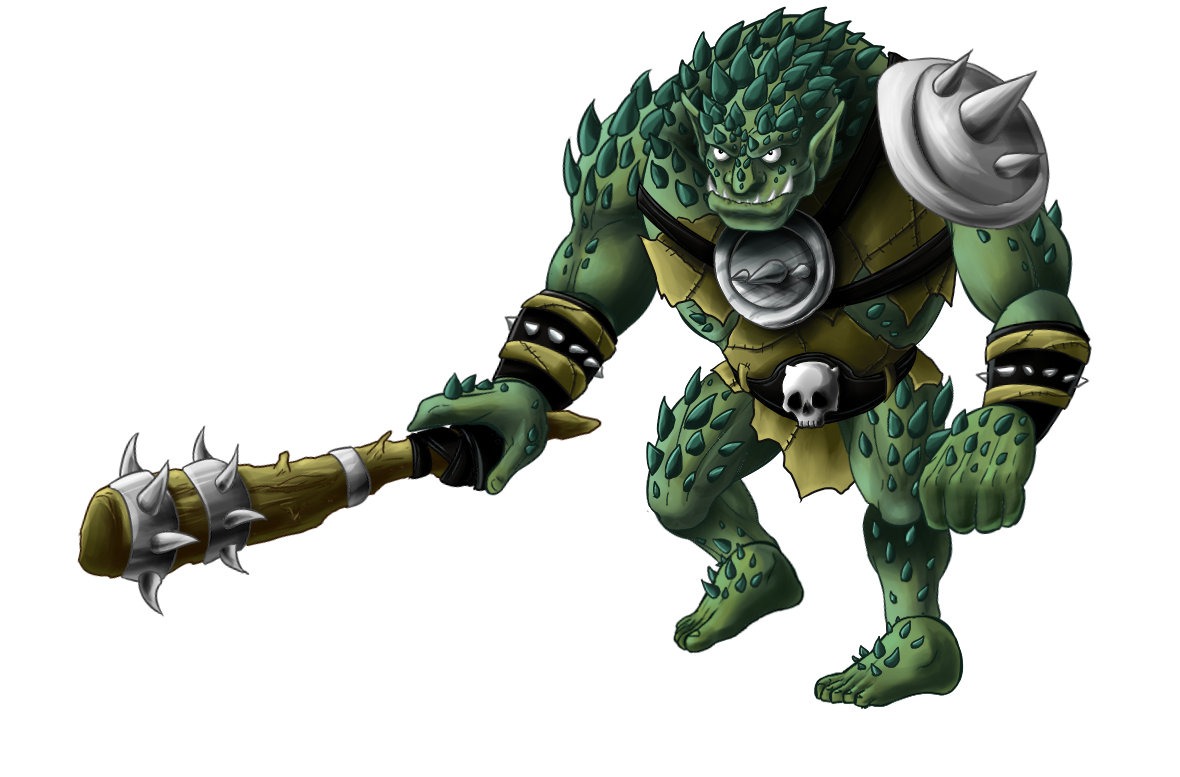
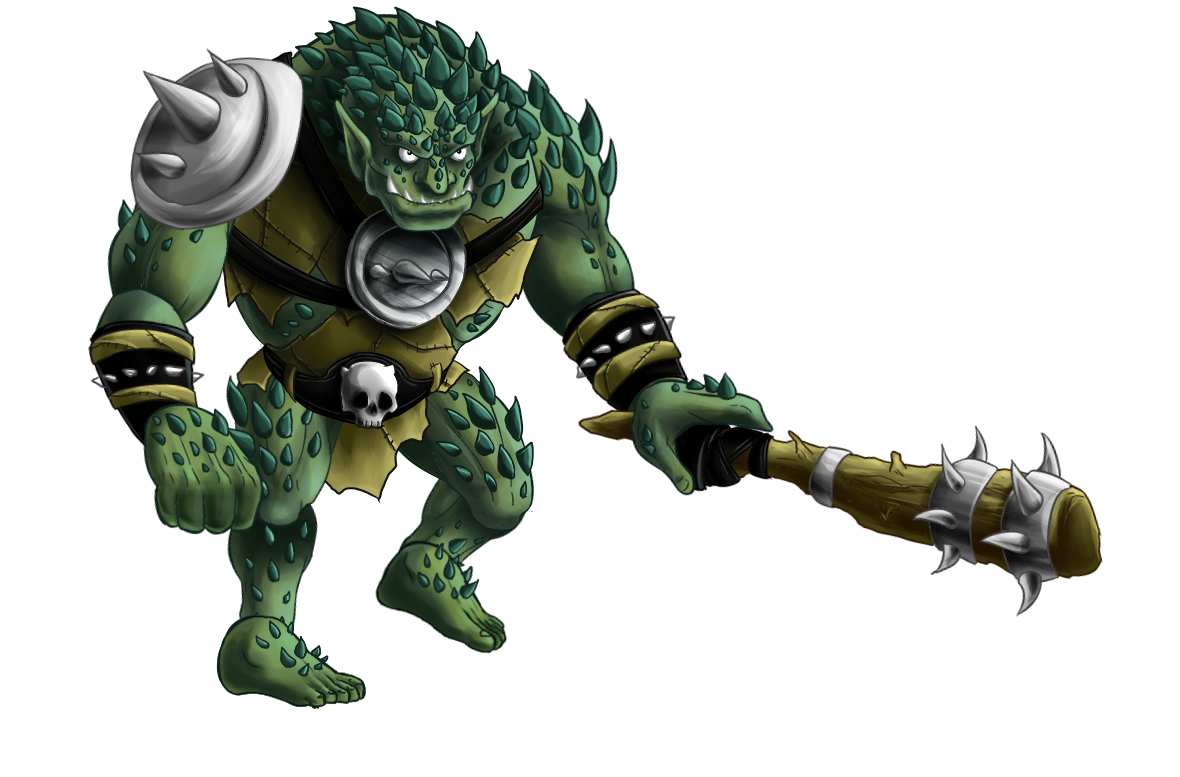
added: endboss walking, endboss get hit, endboss attack fixed: endboss size

diff --git a/models/endboss.class.js b/models/endboss.class.js
@@ -1,8 +1,8 @@
 class Endboss extends MovableObject {
-    width = 420;
-    height = 340;
+    width = 380;
+    height = 280;
     x = 3850;
-    y = 70;
+    y = 90;
     speed = 2;
     offset = {
         x: 50,
@@ -10,12 +10,55 @@ class Endboss extends MovableObject {
         width: 260,
         height: 50,
     };
+    attackHitbox = { 
+    x: 0, 
+    y: 0, 
+    width: 380,   // Länge der Keule
+    height: 180   // Höhe der Keule
+    };
 
-    // für Kollisionslogik in World
+    // Skalierung
+    scaleIdle = 1.0;
+    scaleHurt = 1.25;
+    scaleDead = 1.25;
+    scaleAttack = 1.5;  // Attack jetzt groß wie Dead
+
+    // Y-Offsets
+    hurtYOffset = 10;
+    deadYOffset = 60;
+
+    // Kollisionslogik
     collidable = true;
     isDying = false;
 
-    // === Animation-Arrays ===
+    // Leben
+    energy = 100;
+    isDeadFlag = false;
+
+    // Hurt / Death
+    hurtPlaying = false;
+    hurtFrameIndex = 0;
+    deathPlaying = false;
+    deathFrameIndex = 0;
+
+    // Treffer-Cooldown von Spieler → Boss
+    minHitInterval = 350;
+    lastHitAt = 0;
+
+    // Attack / Hitbox
+    attacking = false;
+    attackFrameIndex = 0;
+    isMoving = false;
+
+    // Boss → Character Schaden-Cooldown
+    damageInterval = 600; 
+    lastDamageDealtAt = 0;
+
+    // Cooldown zwischen zwei Attack-Starts
+    attackCooldown = 900;
+    lastAttackStartedAt = 0;
+
+    // Animationen
     IMAGES_WALKING = [
         'img/4_enemie_boss_orc/1_walk/Walk_000.png',
         'img/4_enemie_boss_orc/1_walk/Walk_001.png',
@@ -81,22 +124,12 @@ class Endboss extends MovableObject {
         'img/4_enemie_boss_orc/3_attack/Attack_009.png'
     ];
 
-    // === Lebens- und Animations-Status ===
-    energy = 100;            // 0–100, wird für die Statusbar genutzt
-    isDeadFlag = false;
-
-    hurtPlaying = false;
-    hurtFrameIndex = 0;
-
-    deathPlaying = false;
-    deathFrameIndex = 0;
-
     constructor() {
         super().loadImage(this.IMAGES_ALERT[0]);
+        this.baseY = this.y;
 
         this.isEndboss = true;
 
-        // alle Sprites in Cache laden
         this.loadImages(this.IMAGES_WALKING);
         this.loadImages(this.IMAGES_ALERT);
         this.loadImages(this.IMAGES_HURT);
@@ -106,29 +139,29 @@ class Endboss extends MovableObject {
         this.animate();
     }
 
-    /**
-     * wird von außen aufgerufen, z.B. bei Schlag oder Kunai-Treffer
-     * damage = wie viel Prozent Leben abgezogen werden sollen
-     */
+    /** Boss bekommt Schaden vom Spieler */
     hit(damage = 10) {
         if (this.isDeadFlag) return;
+
+        const now = performance.now();
+        if (now - this.lastHitAt < this.minHitInterval) return;
+        this.lastHitAt = now;
 
         this.energy -= damage;
         if (this.energy < 0) this.energy = 0;
 
-        // Hurt-Animation EINMAL anspielen
-        if (!this.deathPlaying) {
-            this.hurtPlaying = true;
-            this.hurtFrameIndex = 0;
-        }
+        this.isMoving = false;
+        this.hurtPlaying = true;
+        this.hurtFrameIndex = 0;
 
-        // Tod checken
         if (this.energy === 0) {
             this.isDeadFlag = true;
             this.collidable = false;
             this.isDying = true;
             this.deathPlaying = true;
             this.deathFrameIndex = 0;
+            this.attacking = false;
+            this.isMoving = false;
         }
     }
 
@@ -136,54 +169,133 @@ class Endboss extends MovableObject {
         return this.isDeadFlag;
     }
 
-    animate() {
-        // Animationssteuerung
-        setInterval(() => {
-            if (this.deathPlaying) {
-                this.playDeathOnce();
-            } else if (this.hurtPlaying) {
-                this.playHurtOnce();
-            } else {
-                // solange nichts Besonderes ist, bleibt er in ALERT/Idle
-                this.playAnimation(this.IMAGES_ALERT);
-            }
-        }, 120);
+    /** Boss → Player Damage Check */
+    canDamagePlayer() {
+        if (!this.attacking || this.isDeadFlag || this.hurtPlaying || this.deathPlaying) return false;
 
-        // Bewegung (falls du später was machen willst)
+        const now = performance.now();
+        if (now - this.lastDamageDealtAt < this.damageInterval) return false;
+        this.lastDamageDealtAt = now;
+
+        return true;
+    }
+
+    /** Angriff starten (mit Cooldown) */
+    startAttack() {
+        const now = performance.now();
+
+        if (now - this.lastAttackStartedAt < this.attackCooldown) {
+            return false;
+        }
+
+        this.lastAttackStartedAt = now;
+        this.attacking = true;
+        this.attackFrameIndex = 0;
+        this.isMoving = false;
+        return true;
+    }
+
+    /** Skalierte Darstellung */
+    draw(ctx) {
+        let scale = this.scaleIdle;
+
+        if (this.hurtPlaying) scale = this.scaleHurt;
+        else if (this.deathPlaying) scale = this.scaleDead;
+        else if (this.attacking) scale = this.scaleAttack;
+
+        const w = this.width * scale;
+        const h = this.height * scale;
+
+        const dx = this.x - (w - this.width) / 2;
+        const dy = this.y - (h - this.height);
+
+        ctx.drawImage(this.img, dx, dy, w, h);
+    }
+
+    animate() {
+        // --- Animationslogik ---
         setInterval(() => {
-            if (!this.isDeadFlag) {
-                // Beispiel: Blickrichtung nach rechts
-                this.otherDirection = true;
-                // this.moveLeft(); // falls er laufen soll
+            if (this.deathPlaying) return this.playDeathOnce();
+            if (this.hurtPlaying) return this.playHurtOnce();
+            if (this.attacking) return this.playAttackOnce();
+            if (this.isMoving) return this.playAnimation(this.IMAGES_WALKING);
+            this.playAnimation(this.IMAGES_ALERT);
+        }, 100);
+
+        // --- AI / Bewegung ---
+        setInterval(() => {
+            if (this.hurtPlaying || this.deathPlaying || this.attacking) {
+                this.isMoving = false;
+                return;
             }
+
+            if (!this.world || !this.world.character) {
+                this.moveLeft();
+                this.isMoving = true;
+                return;
+            }
+
+            const char = this.world.character;
+            const distanceX = Math.abs(this.x - char.x);
+            const attackRange = 40; // nah ranlaufen
+
+            this.otherDirection = (this.x > char.x);
+
+            if (distanceX <= attackRange) {
+                this.isMoving = false;
+                this.startAttack();
+            } else {
+                this.attacking = false;
+                this.isMoving = true;
+
+                if (this.x > char.x) this.moveLeft();
+                else this.moveRight();
+            }
+
         }, 1000 / 60);
     }
 
-    /** Hurt-Animation EINMAL komplett durchspielen */
     playHurtOnce() {
+        this.y = this.baseY + this.hurtYOffset;
+
         if (this.hurtFrameIndex >= this.IMAGES_HURT.length) {
             this.hurtPlaying = false;
             this.hurtFrameIndex = 0;
+            this.y = this.baseY;
             return;
         }
-        let path = this.IMAGES_HURT[this.hurtFrameIndex];
-        this.img = this.imageCache[path];
-        this.hurtFrameIndex++;
+        this.img = this.imageCache[this.IMAGES_HURT[this.hurtFrameIndex++]];
     }
 
-    /**
-     * Death-Animation EINMAL durchspielen und im letzten Bild einfrieren
-     */
     playDeathOnce() {
+        this.y = this.baseY + this.deadYOffset;
+
         if (this.deathFrameIndex >= this.IMAGES_DEAD.length) {
-            let lastIndex = this.IMAGES_DEAD.length - 1;
-            let path = this.IMAGES_DEAD[lastIndex];
-            this.img = this.imageCache[path];
-            // bleibt im letzten Frame eingefroren
+            this.img = this.imageCache[this.IMAGES_DEAD[this.IMAGES_DEAD.length - 1]];
             return;
         }
-        let path = this.IMAGES_DEAD[this.deathFrameIndex];
-        this.img = this.imageCache[path];
-        this.deathFrameIndex++;
+        this.img = this.imageCache[this.IMAGES_DEAD[this.deathFrameIndex++]];
     }
+
+playAttackOnce() {
+    if (this.attackFrameIndex >= this.IMAGES_ATTACK.length) {
+        this.attackFrameIndex = 0;
+        this.attacking = false;
+        return;
+    }
+
+    const path = this.IMAGES_ATTACK[this.attackFrameIndex];
+    this.img = this.imageCache[path];
+    this.attackFrameIndex++;
+
+    // --- HITBOX POSITIONIEREN ---  
+    // Boss schaut nach links (otherDirection = true)
+    if (this.otherDirection) {
+        this.attackHitbox.x = this.x - 60; 
+        this.attackHitbox.y = this.y + 40;
+    } else {
+        this.attackHitbox.x = this.x + this.width - 20; 
+        this.attackHitbox.y = this.y + 40;
+    }
+}
 }

diff --git a/models/world.class.js b/models/world.class.js
@@ -88,14 +88,23 @@ class World {
       }
 
       // b) Gegner trifft Charakter (nur wenn Charakter NICHT gerade erfolgreich angreift)
-      if (
-        colliding &&
-        !this.character.isHurt() &&
-        !this.character.isDead()
-      ) {
-        this.character.hit();
-        this.statusBarLife.setPercentage(this.character.energy);
-      }
+// b) Gegner trifft Charakter
+if (colliding && !this.character.isDead()) {
+
+  if (enemy.isEndboss && typeof enemy.canDamagePlayer === 'function') {
+    // Endboss darf nur Schaden machen, wenn er gerade angreift
+    if (!this.character.isHurt() && enemy.canDamagePlayer()) {
+      this.character.hit();
+      this.statusBarLife.setPercentage(this.character.energy);
+    }
+  } else {
+    // Normale Orcs: Kontakt reicht
+    if (!this.character.isHurt()) {
+      this.character.hit();
+      this.statusBarLife.setPercentage(this.character.energy);
+    }
+  }
+}
     });
 
     /** --------- 2. Kunai vs. Enemies --------- */
@@ -185,22 +194,25 @@ class World {
 
   /** ------------------------------------------------------ **/
 
-  checkForEndboss() {
-    if (this.character.x > 3500 && !this.level.endbossLoaded) {
-      const endboss = new Endboss();
-      // Flag für World-Logik
-      endboss.isEndboss = true;
+checkForEndboss() {
+  if (this.character.x > 3500 && !this.level.endbossLoaded) {
+    const endboss = new Endboss();
 
-      this.level.enemies.push(endboss);
-      this.level.endbossLoaded = true;
-      this.level.endboss = endboss;
+    // NEU: Referenz zur World, damit er auf den Character zugreifen kann
+    endboss.world = this;
 
-      // Statusbar auf aktuelles Boss-Leben setzen
-      this.statusBarEndboss.setPercentage(endboss.energy);
+    endboss.isEndboss = true;
 
-      console.log("Endboss wurde geladen!");
-    }
+    this.level.enemies.push(endboss);
+    this.level.endbossLoaded = true;
+    this.level.endboss = endboss;
+
+    this.statusBarEndboss.setPercentage(endboss.energy);
+
+    console.log("Endboss wurde geladen!");
   }
+}
+
 
   draw() {
     this.ctx.clearRect(0, 0, this.canvas.width, this.canvas.height);

diff --git a/levels/level1.js b/levels/level1.js
@@ -1,6 +1,6 @@
 const level1 = new Level(
     [
-        new OrcGreen(),
+        /*new OrcGreen(),
         new OrcGreen(),
         new OrcGreen(),
         new OrcGreen(),
@@ -17,8 +17,7 @@ const level1 = new Level(
         new OrcRed(),
         new OrcRed(),
         new OrcRed(),
-        new OrcRed()
-        // new Endboss()
+        new OrcRed()*/
     ],
     [
         new Firefly(-680),
